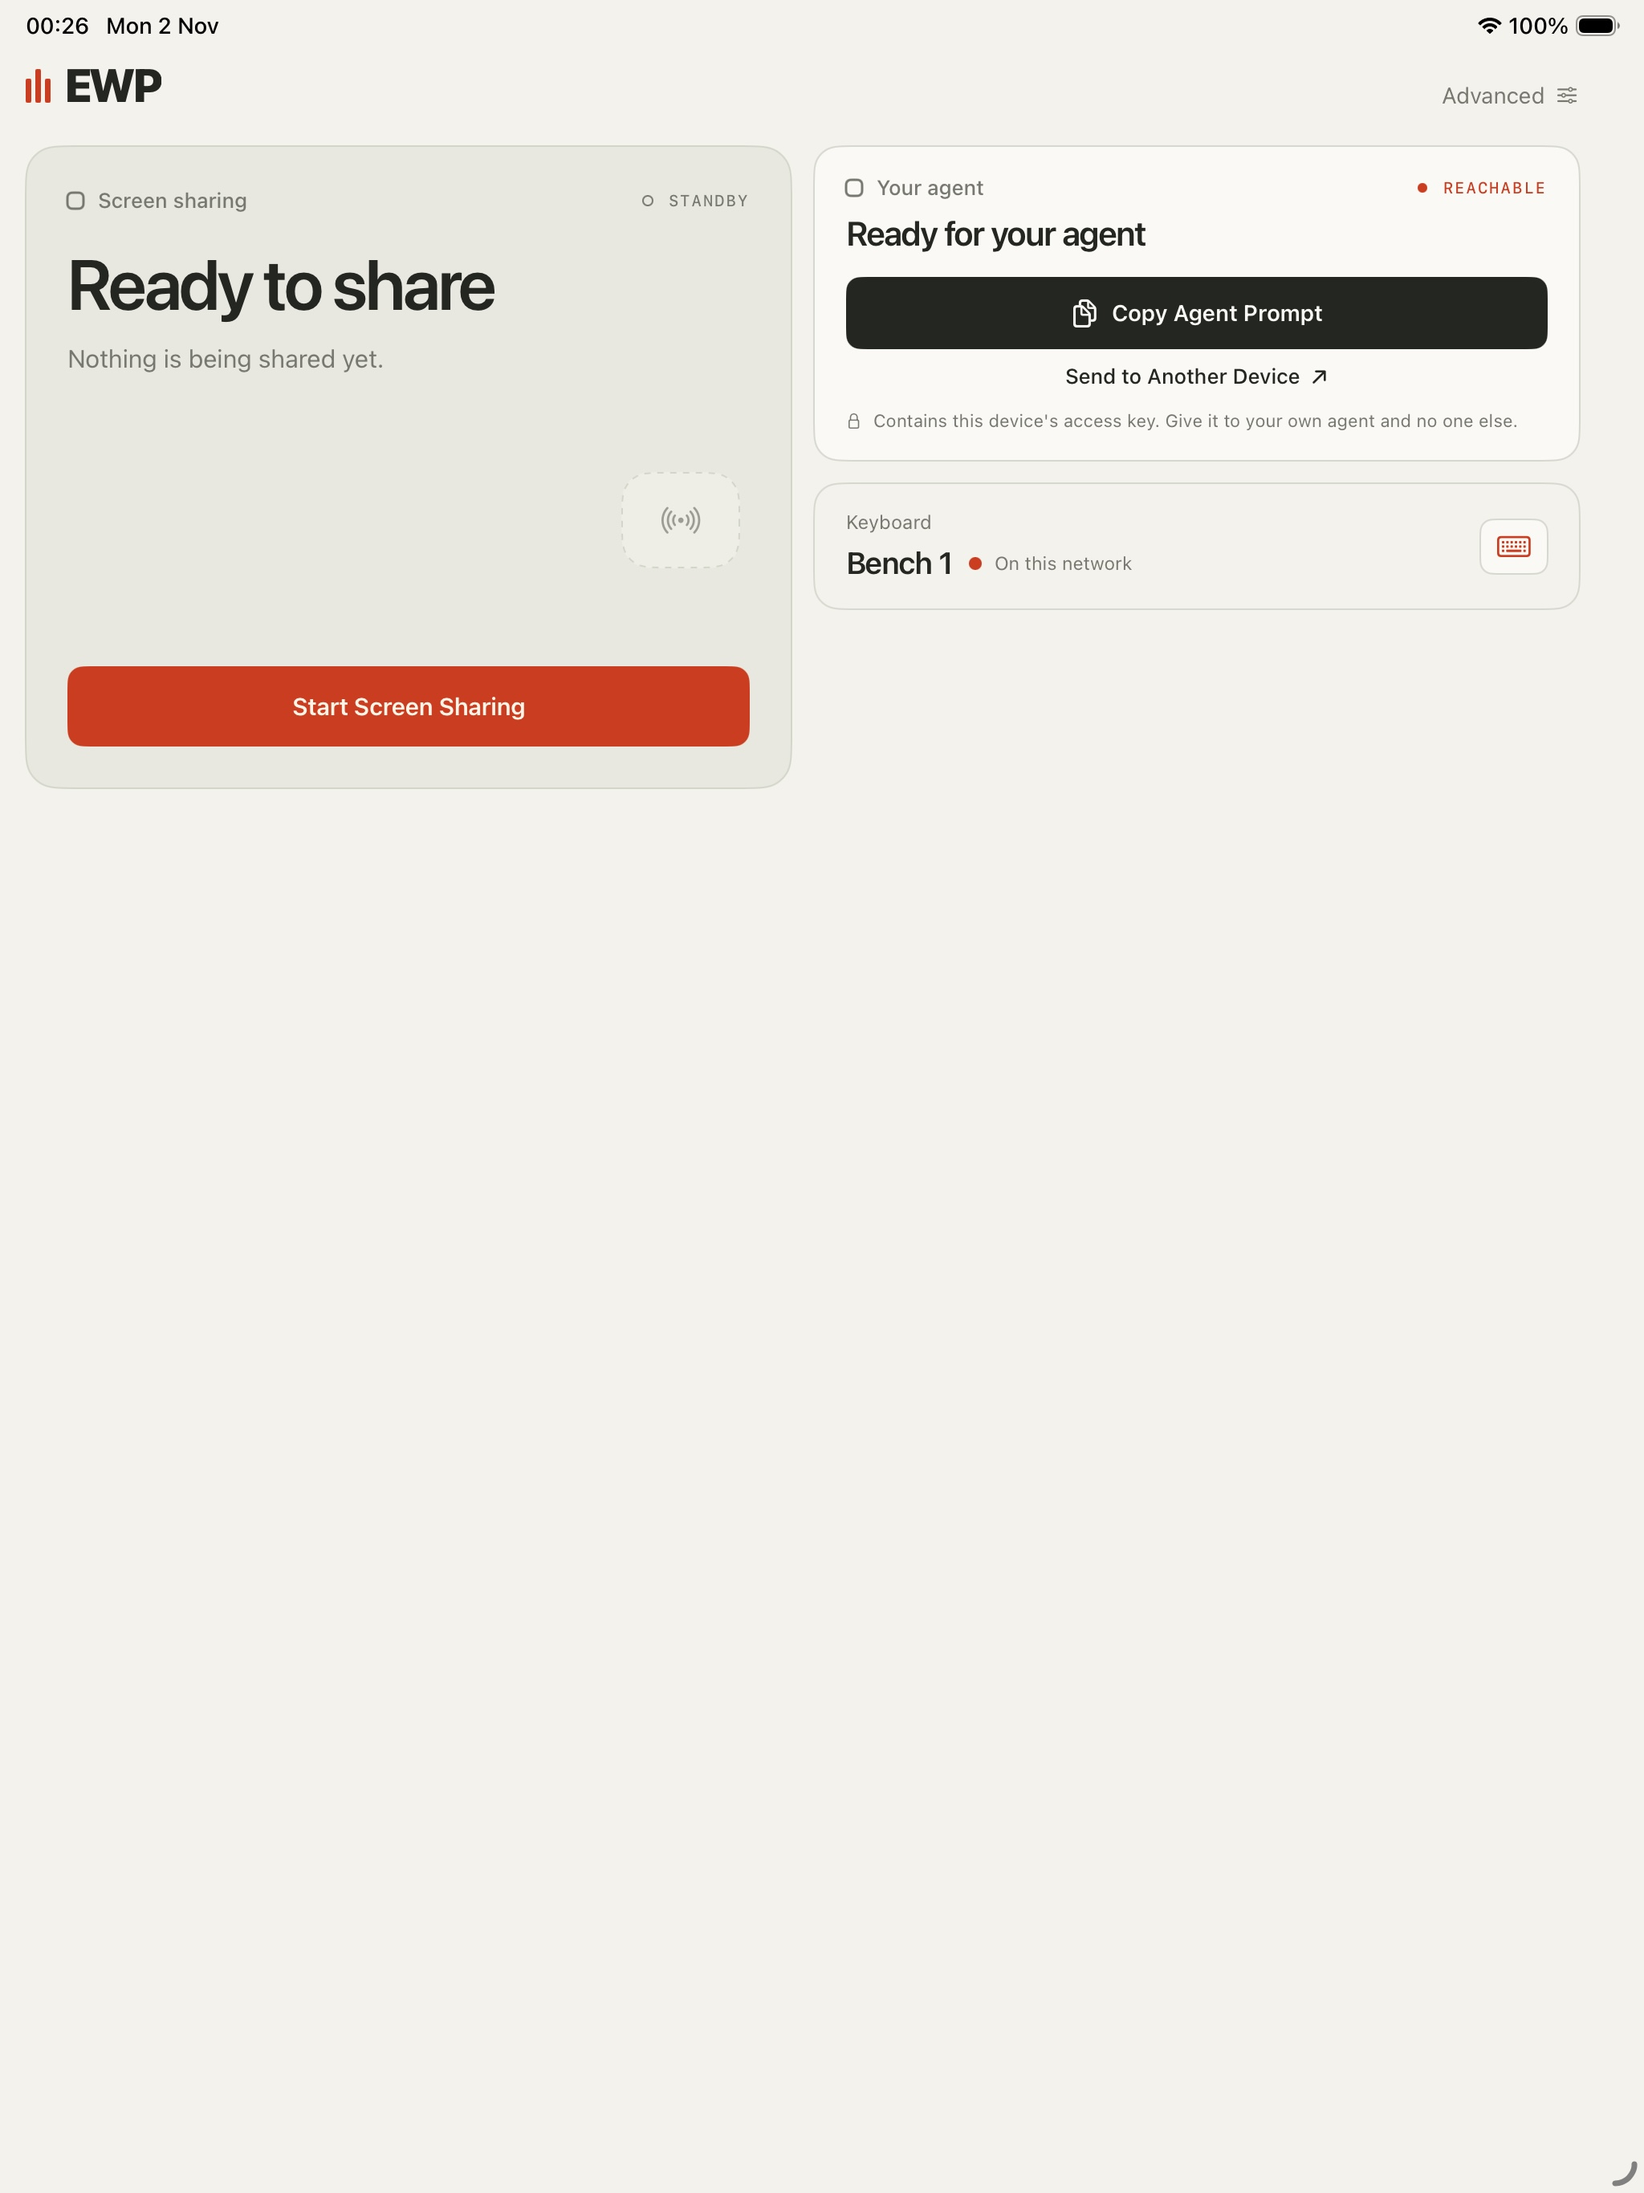
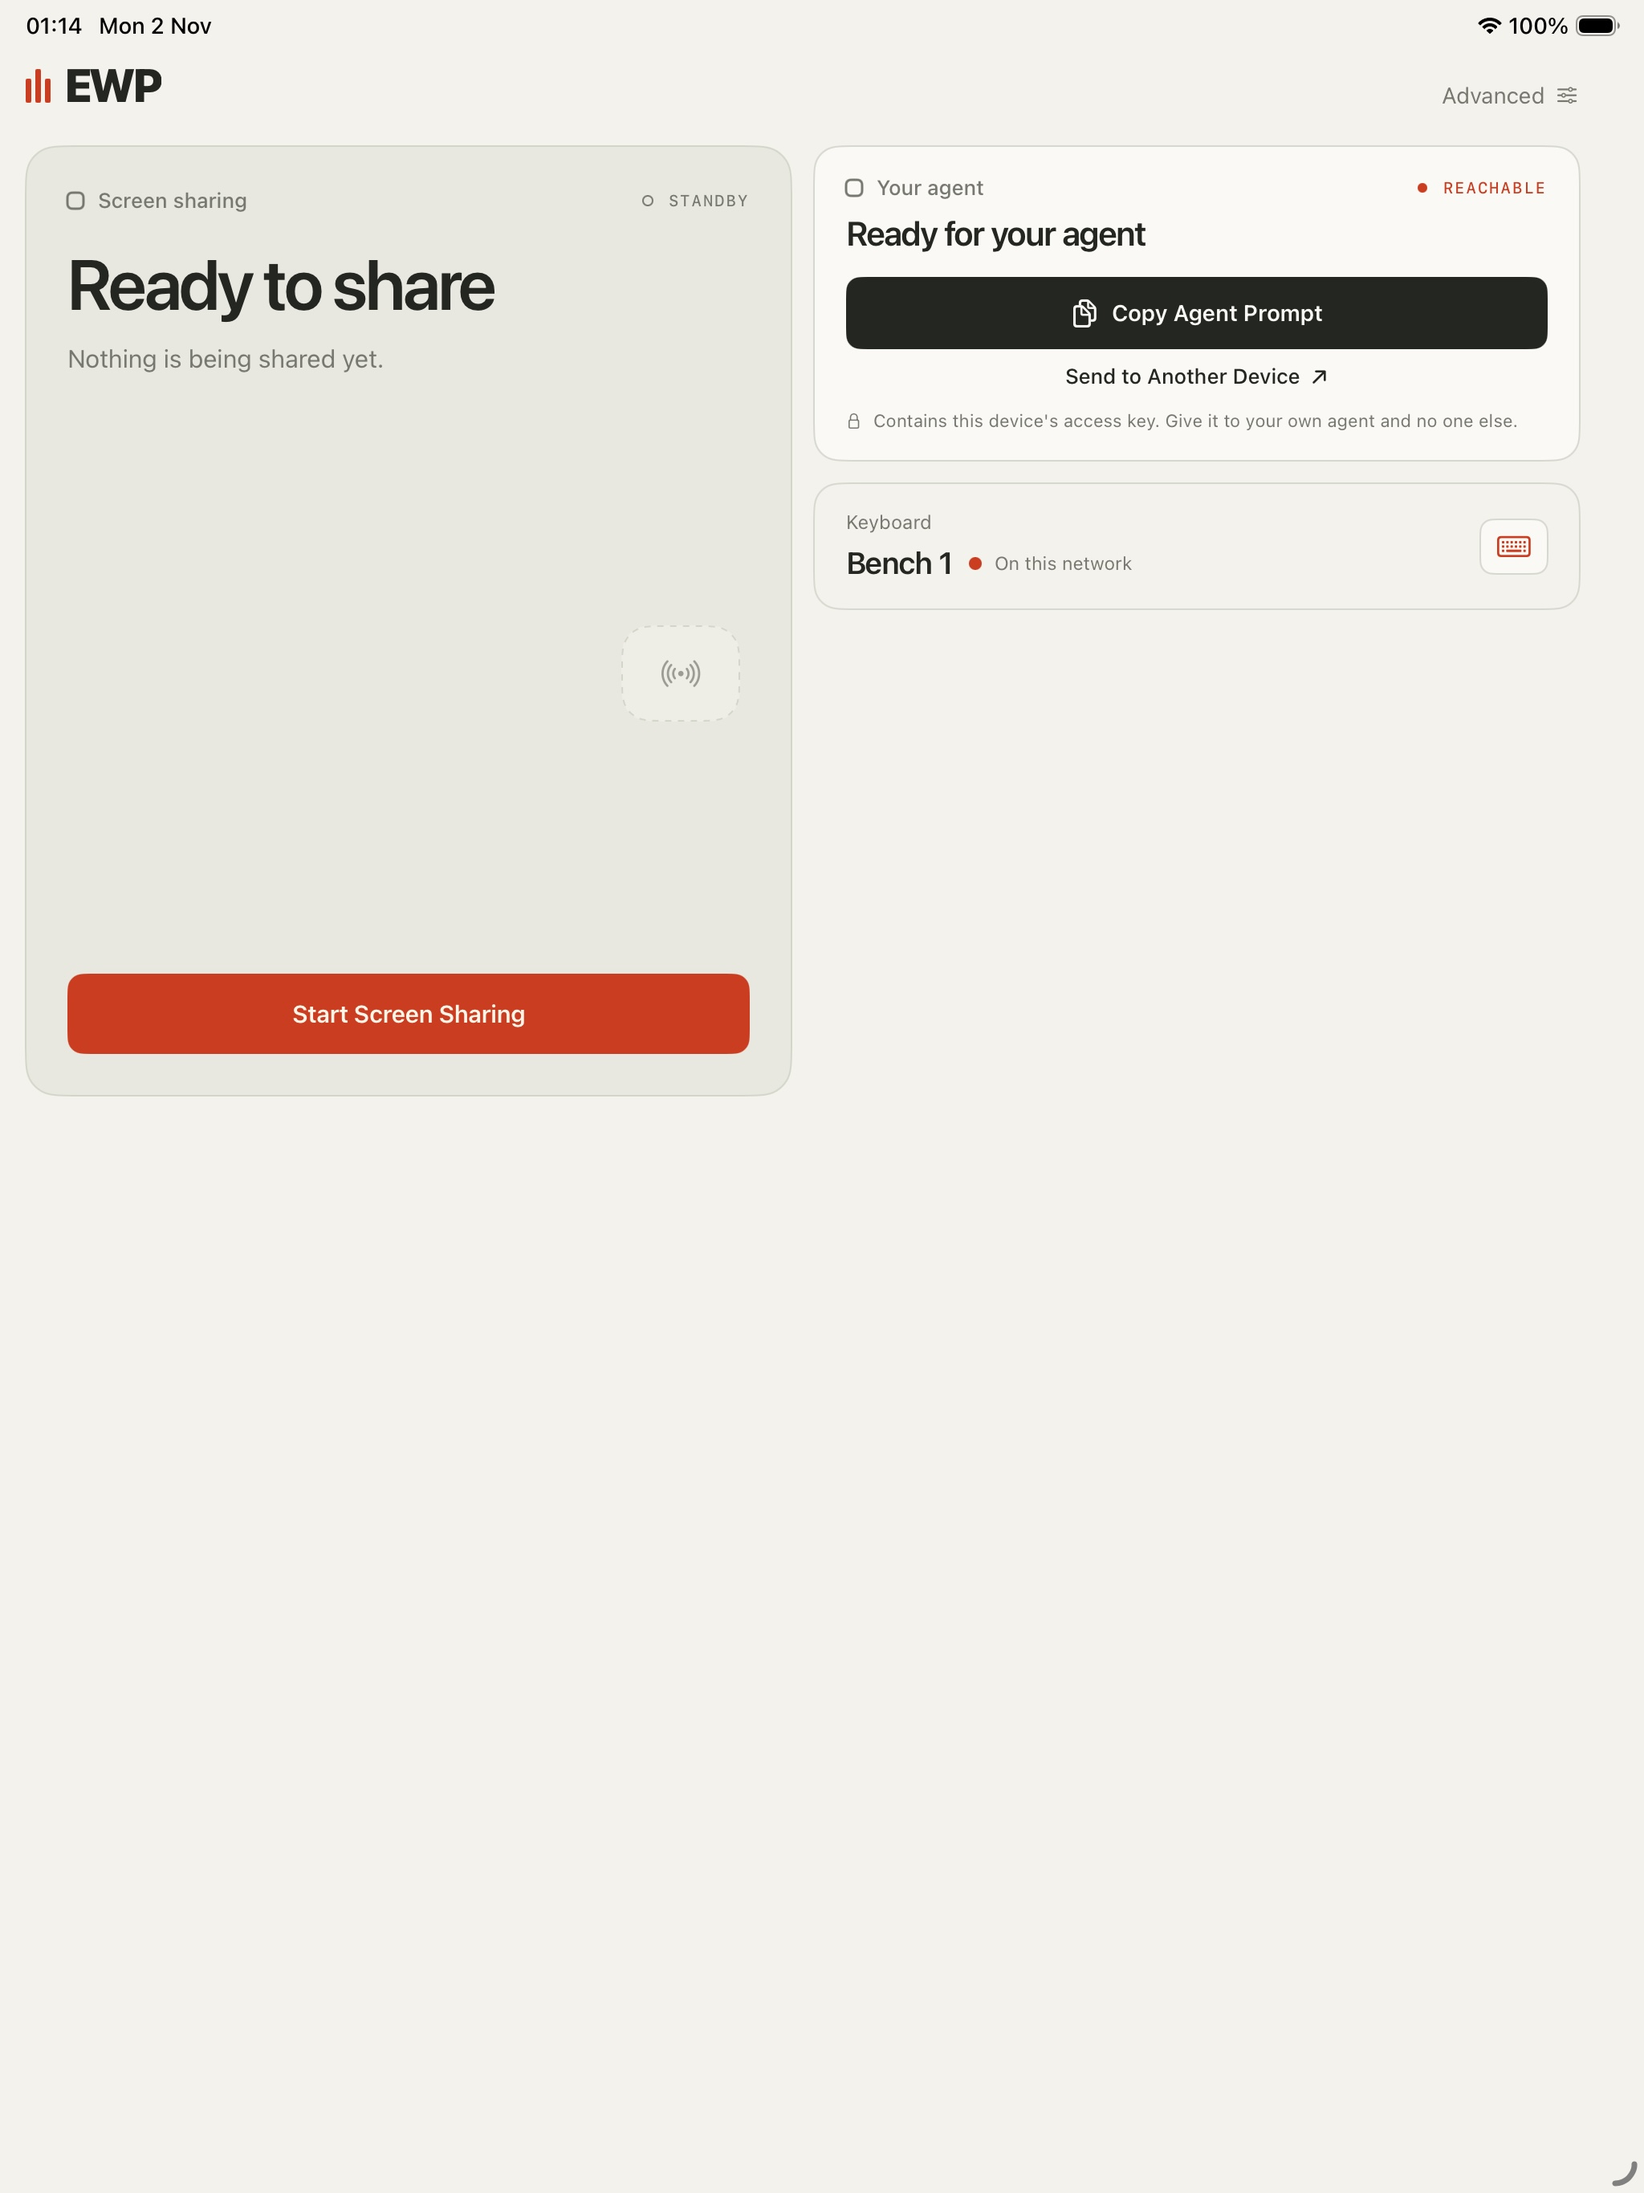
Lay the home screen out from the space it has
The screen branched on the horizontal size class, which describes none of the
cases that matter: an iPad in a narrow split is a phone, an iPhone Duo is a
short wide screen at 678 x 466 pt, and a phone in landscape has less height
than the field alone would like.

It now measures what it is given. Two columns from 620 pt. The headline comes
down to 78% when a column is under 330 pt, since splitting a 678 pt screen
leaves columns narrower than a phone's. The field takes 45% of the viewport
beside the blocks and 348 pt above them, never less than 236, so it grows with
a tall iPad instead of stranding one block at the top of a void, and never
swallows a short screen.

iPhone Duo has the build installed but its simulator will not render a
screenshot without the device panel, so its layout is reasoned about and not
confirmed.

Changed region(s): [[0.0312, 0.4356, 0.4688, 0.4978], [0.0312, 0.28, 0.4688, 0.3422], [0.0312, 0.0, 0.125, 0.0311]]

diff --git a/ios/EWP/CompanionView.swift b/ios/EWP/CompanionView.swift
@@ -6,7 +6,6 @@ import SwiftUI
 struct CompanionView: View {
     @StateObject private var model = CompanionModel()
     @Environment(\.scenePhase) private var scenePhase
-    @Environment(\.horizontalSizeClass) private var sizeClass
     @State private var showSetup = false
     @State private var poll: Task<Void, Never>?
 
@@ -16,36 +15,38 @@ struct CompanionView: View {
         poll = Task { await model.run() }
     }
 
-    private var isWide: Bool { sizeClass == .regular }
-
     var body: some View {
         NavigationStack {
-            ScrollView {
-                VStack(spacing: Theme.cardSpacing) {
-                    header
-                    if isWide {
-                        // An iPad has room to show the field beside the two
-                        // quiet blocks instead of above them. Equal explicit
-                        // widths: left to negotiate, the columns size to their
-                        // text and long messages get truncated.
-                        HStack(alignment: .top, spacing: Theme.cardSpacing) {
-                            ShareField(model: model, prominent: true)
+            GeometryReader { geometry in
+                let layout = Layout(size: geometry.size)
+                ScrollView {
+                    VStack(spacing: Theme.cardSpacing) {
+                        header
+                        if layout.twoColumn {
+                            // With room for two readable measures the field
+                            // goes beside the quiet blocks rather than above
+                            // them. Equal explicit widths: left to negotiate,
+                            // the columns size to their text and long messages
+                            // get truncated.
+                            HStack(alignment: .top, spacing: Theme.cardSpacing) {
+                                ShareField(model: model, layout: layout)
+                                    .frame(maxWidth: .infinity)
+                                VStack(spacing: Theme.cardSpacing) {
+                                    AgentBlock(model: model)
+                                    KeyboardBlock(model: model, showSetup: $showSetup)
+                                }
                                 .frame(maxWidth: .infinity)
-                            VStack(spacing: Theme.cardSpacing) {
-                                AgentBlock(model: model)
-                                KeyboardBlock(model: model, showSetup: $showSetup)
                             }
-                            .frame(maxWidth: .infinity)
+                        } else {
+                            ShareField(model: model, layout: layout)
+                            AgentBlock(model: model)
+                            KeyboardBlock(model: model, showSetup: $showSetup)
                         }
-                    } else {
-                        ShareField(model: model)
-                        AgentBlock(model: model)
-                        KeyboardBlock(model: model, showSetup: $showSetup)
                     }
+                    .padding(.horizontal, 16)
+                    .padding(.bottom, 32)
+                    .readableColumn(wide: layout.twoColumn)
                 }
-                .padding(.horizontal, 16)
-                .padding(.bottom, 32)
-                .readableColumn(wide: isWide)
             }
             .signalBackground()
             .toolbar(.hidden, for: .navigationBar)
@@ -90,12 +91,42 @@ struct CompanionView: View {
     }
 }
 
+/// The home screen is laid out from the space it is actually given, not from
+/// the size class. An iPad in a narrow split is a phone; an iPhone Duo is a
+/// short wide screen that no size class describes; and a phone in landscape
+/// has less height than the field alone would like.
+struct Layout {
+    let twoColumn: Bool
+    let fieldHeight: CGFloat
+    let padding: CGFloat
+    /// Applied to the headline, which is the one thing that cannot simply
+    /// wrap its way out of a narrow column.
+    let titleScale: CGFloat
+
+    init(size: CGSize) {
+        // Two readable measures side by side, plus the gutter between them.
+        twoColumn = size.width >= 620
+        padding = twoColumn ? 26 : 22
+        // Splitting a 678 pt screen leaves columns narrower than a phone's,
+        // so the headline comes down with them rather than overflowing.
+        let column = twoColumn ? (size.width - 46) / 2 : size.width - 32
+        titleScale = column < 330 ? 0.78 : 1
+        // The field never takes the whole viewport: on a short screen the
+        // blocks under it have to stay in sight without scrolling for them.
+        // Beside them, though, it grows with the screen, so a tall iPad does
+        // not leave the one important block stranded at the top of a void.
+        let ceiling = twoColumn ? max(400, size.height * 0.45) : 348
+        let room = size.height - (twoColumn ? 120 : 300)
+        fieldHeight = min(ceiling, max(236, room))
+    }
+}
+
 // MARK: - Screen sharing
 
 /// The one block that is allowed to use the colour, and only when live.
 private struct ShareField: View {
     @ObservedObject var model: CompanionModel
-    var prominent = false
+    var layout: Layout
     @ScaledMetric(relativeTo: .largeTitle) private var titleSize: CGFloat = 44
 
     private var live: Bool { model.sharing == .live }
@@ -104,13 +135,16 @@ private struct ShareField: View {
         VStack(alignment: .leading, spacing: 0) {
             BlockLabel(title: "Screen sharing", tint: labelTint) { beacon }
             Text(title)
-                .font(.system(size: titleSize, weight: .semibold))
+                .font(.system(size: titleSize * layout.titleScale, weight: .semibold))
                 .tracking(-1.9)
                 .foregroundStyle(live ? Theme.onLive : Theme.ink)
                 .fixedSize(horizontal: false, vertical: true)
+                // A long word in a narrow column, or a large accessibility
+                // size, shrinks the headline instead of clipping it.
+                .minimumScaleFactor(0.6)
                 // Held to a measure so it breaks into two lines rather than
                 // running the width of the field as one thin headline.
-                .frame(maxWidth: live ? 350 : 300, alignment: .leading)
+                .frame(maxWidth: layout.twoColumn ? .infinity : (live ? 350 : 300), alignment: .leading)
                 .padding(.top, 18)
             Text(detail)
                 .font(.system(size: 15.5))
@@ -131,8 +165,8 @@ private struct ShareField: View {
             }
             action
         }
-        .padding(prominent ? 26 : 22)
-        .frame(maxWidth: .infinity, minHeight: prominent ? 400 : 348, alignment: .topLeading)
+        .padding(layout.padding)
+        .frame(maxWidth: .infinity, minHeight: layout.fieldHeight, alignment: .topLeading)
         .background {
             RoundedRectangle(cornerRadius: Theme.fieldRadius, style: .continuous)
                 .fill(live ? Theme.live : Theme.standby)

diff --git a/docs/verification.md b/docs/verification.md
@@ -85,6 +85,34 @@ is no layout before and after to show for them.
 | Advanced | iPhone 16 Pro Max simulator | Passed; follows the new palette through the shared design system. |
 | App icon | `design/make_icon.py`, contact sheet at 1024 to 40 px | Passed; the lit phone still reads at 40 px. |
 
+### Laid out from the space it has, 2 November 2026
+
+The home screen no longer branches on the horizontal size class. It measures
+the space it is actually given and decides from that, because the size class
+describes none of the cases that matter here: an iPad in a narrow split is a
+phone, an iPhone Duo is a short wide screen, and a phone in landscape has less
+height than the field alone would like.
+
+| Rule | Why |
+| --- | --- |
+| Two columns at 620 pt and wider | Below that there is not room for two readable measures side by side. |
+| Headline drops to 78% when a column is under 330 pt | Splitting a 678 pt screen leaves columns narrower than a phone's; the headline is the one thing that cannot wrap its way out. |
+| Field height is 45% of the viewport beside the blocks, 348 pt above them, never under 236 pt | It grows with a tall iPad instead of stranding one block at the top of a void, and never swallows a short screen. |
+
+| Check | Host / source | Result |
+| --- | --- | --- |
+| iPhone, portrait | iPhone 16 Pro Max simulator | Single column, unchanged. |
+| iPhone, landscape | iPhone 16 Pro Max simulator, 956 × 440 | Two columns, field reduced to fit the height. |
+| iPad, full screen | iPad Air 13 M3 simulator | Two columns; the field now carries the height rather than leaving it empty. |
+| Install on the owner's devices | Physical iPhone 16 Pro Max and iPad Air 13 M3, over USB | Installed and launched on the phone. |
+
+**iPhone Duo is not verified.** Its simulator is booted and has the build
+installed, but its screen will not render for a screenshot without the device
+panel, and access to that device has not been granted, so the layout has only
+been reasoned about from its dimensions — 1398 × 2034 px, 678 × 466 pt, wider
+and far shorter than any other iPhone. By the rules above that puts it in two
+columns with a reduced headline and a 346 pt field. Nothing has confirmed it.
+
 Not verified: the waiting state was not captured, Dynamic Type above the
 default was not exercised beyond the headline's `ScaledMetric`, and no
 physical device has run this build.
